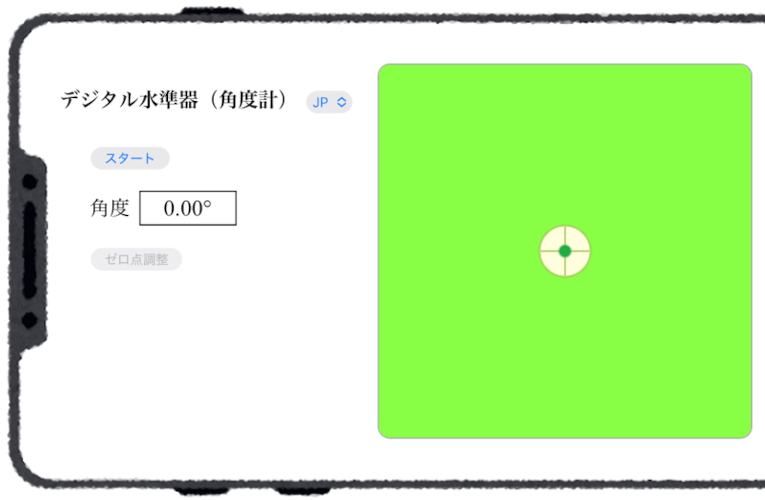
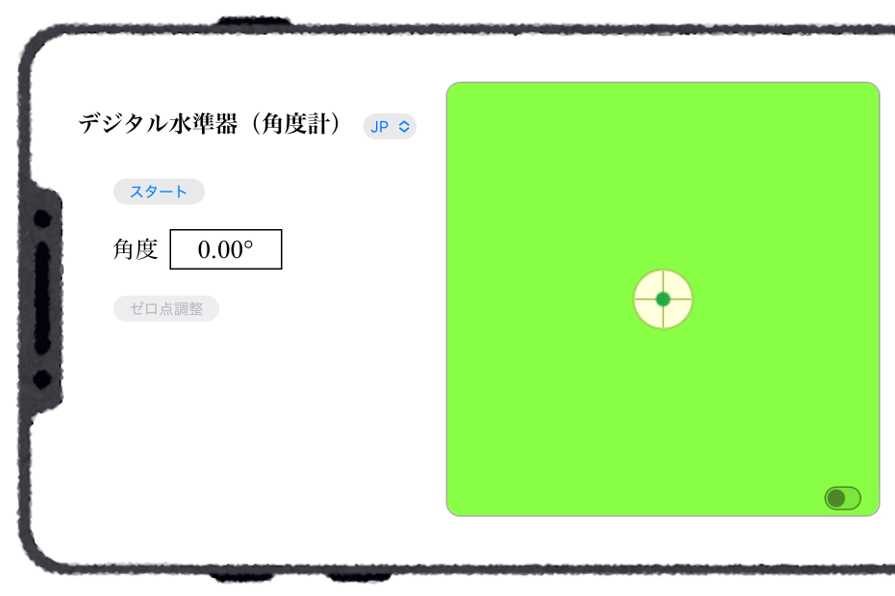
update

diff --git a/digital_level/manual_digital_level_jp/screen_structure.html b/digital_level/manual_digital_level_jp/screen_structure.html
@@ -50,6 +50,9 @@
         <li><span class="emph1">「ゼロ点調整」ボタン</span><br />
           水準器が起動している状態で「ゼロ点調整」ボタンをクリックすると，そのときのデバイスの置かれた面の角度をゼロ（基準）として角度を測定するモードとなる．再度，このボタンをクリックすると解除される．
         </li>
+        <li><span class="emph1">「滑り検出」スイッチ</span><br />
+          水準器が起動している状態で画面右下の「滑り検出」スイッチをクリックすると，ある面に置かれたデバイスの滑りを検出し，滑り出したときの角度を表示してセンサを停止する．
+        </li>
       </ul>
     </div>
 

diff --git a/digital_level/manual_digital_level_jp/style.css b/digital_level/manual_digital_level_jp/style.css
@@ -9,7 +9,7 @@ header {
 }
 
 main {
-    margin-top:5rem;
+    margin:5rem auto 0;
     max-width: 800px;
 }
 
